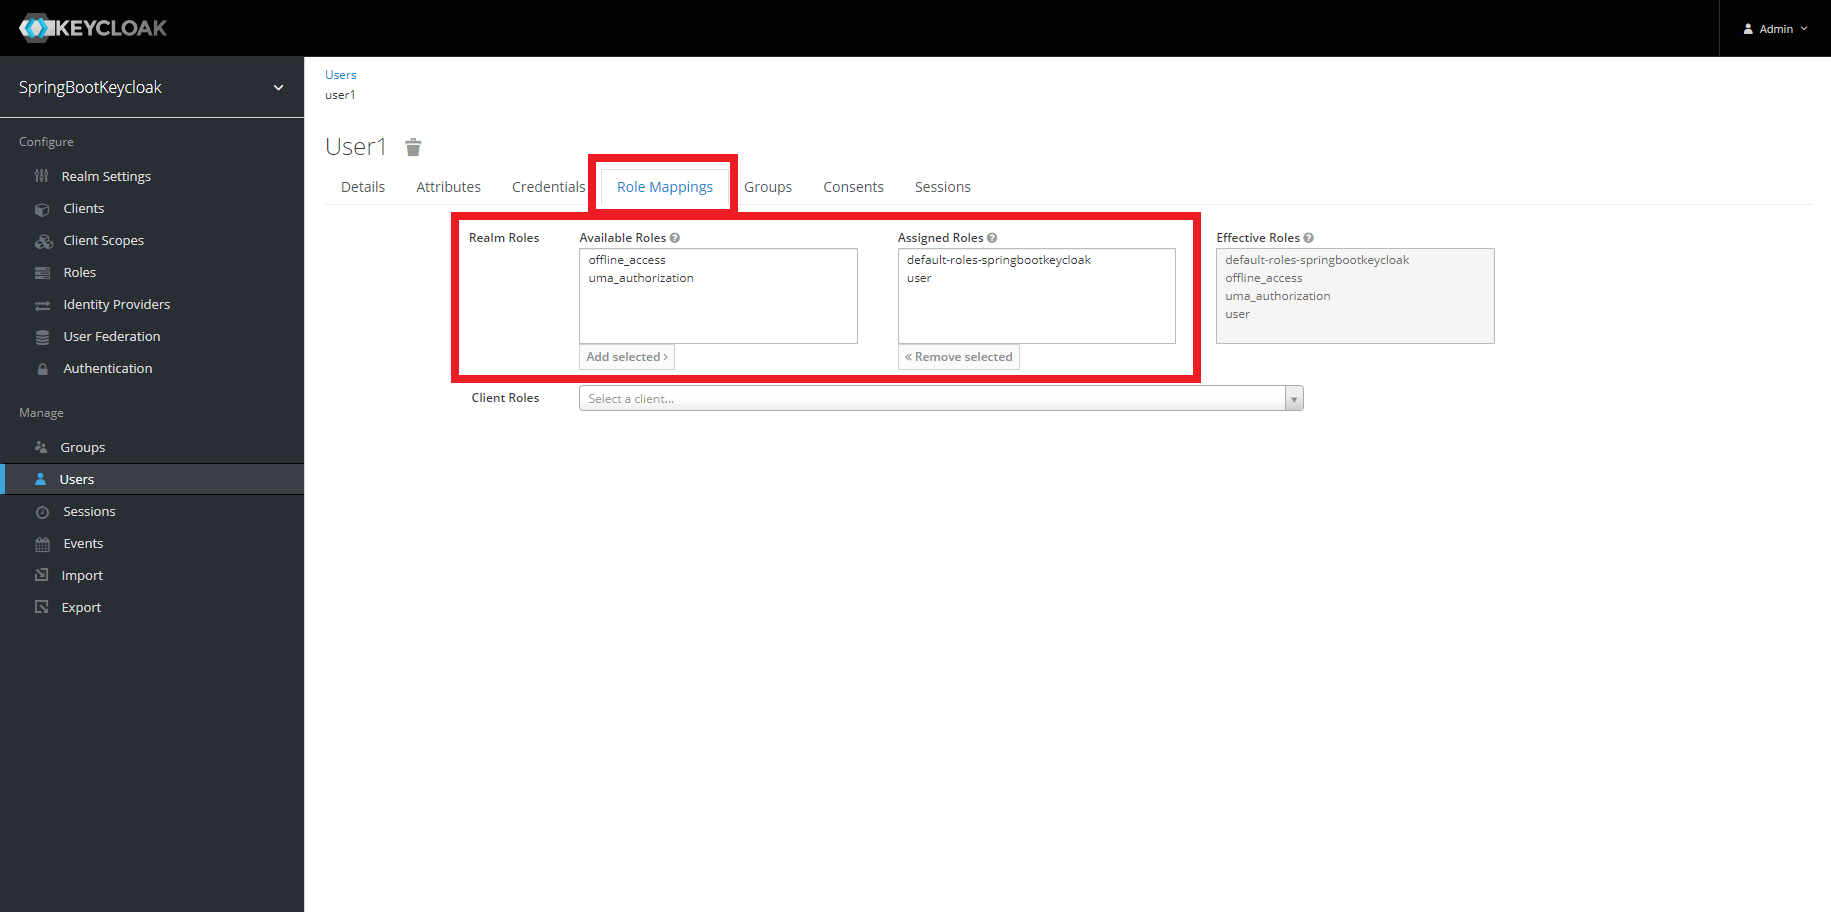
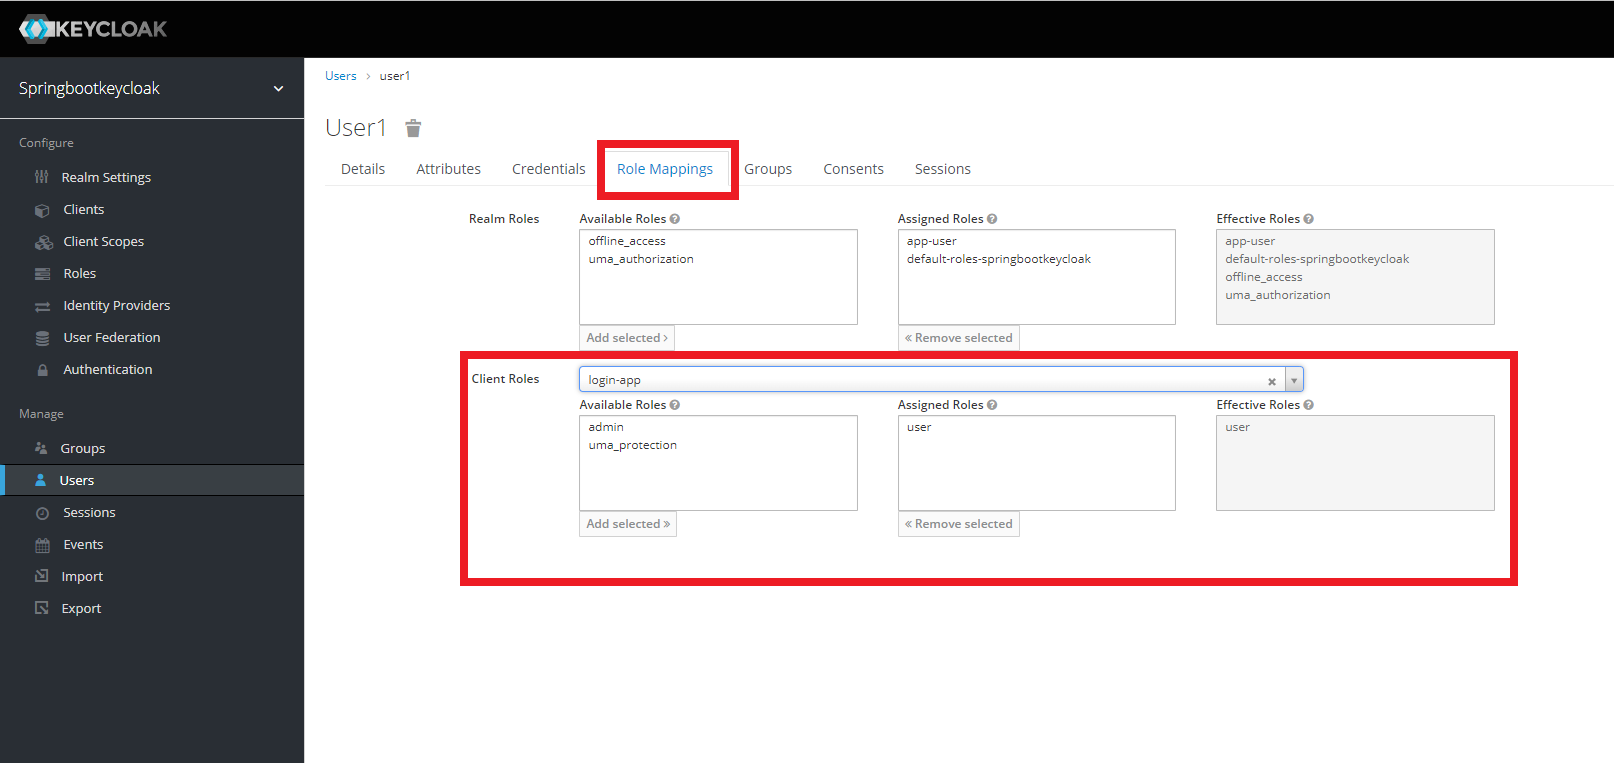
docs: keycloak 문서 이미지 수정

diff --git a/README.md b/README.md
@@ -70,7 +70,7 @@ jboss/keycloak
 13. user1 생성 후 Credentials 탭으로 이동 후 비밀번호를 설정 후 하단의 Set Password 버튼을 누른다.
 ![keycloak-demo-5](./doc-images/keycloak-demo-5.png)
 
-14. 상단 Role Mappings 탭으로 이동 후 Available Roles 에서 11번에서 생성한 user Role 을 클릭 후 Ad Selected 버튼을 클릭하면 user Role 이 Assigned Roles 로 이동한다. 이렇게 되면 완료된 상태이다.
+14. 상단 Role Mappings 탭으로 이동 후 Client Roles > login-app 선택 후 Available Roles 에서 11번에서 생성한 user Role 을 클릭 후 Ad Selected 버튼을 클릭하면 user Role 이 Assigned Roles 로 이동한다. 이렇게 되면 완료된 상태이다.
 ![keycloak-demo-6](./doc-images/keycloak-demo-6.png)
 
 15. 설정이 완료되었으면 postman 프로그램을 이용하여 로그인 테스트가 가능하다. 로그인이 정상적으로 되었으면 토큰이 발급된다.
